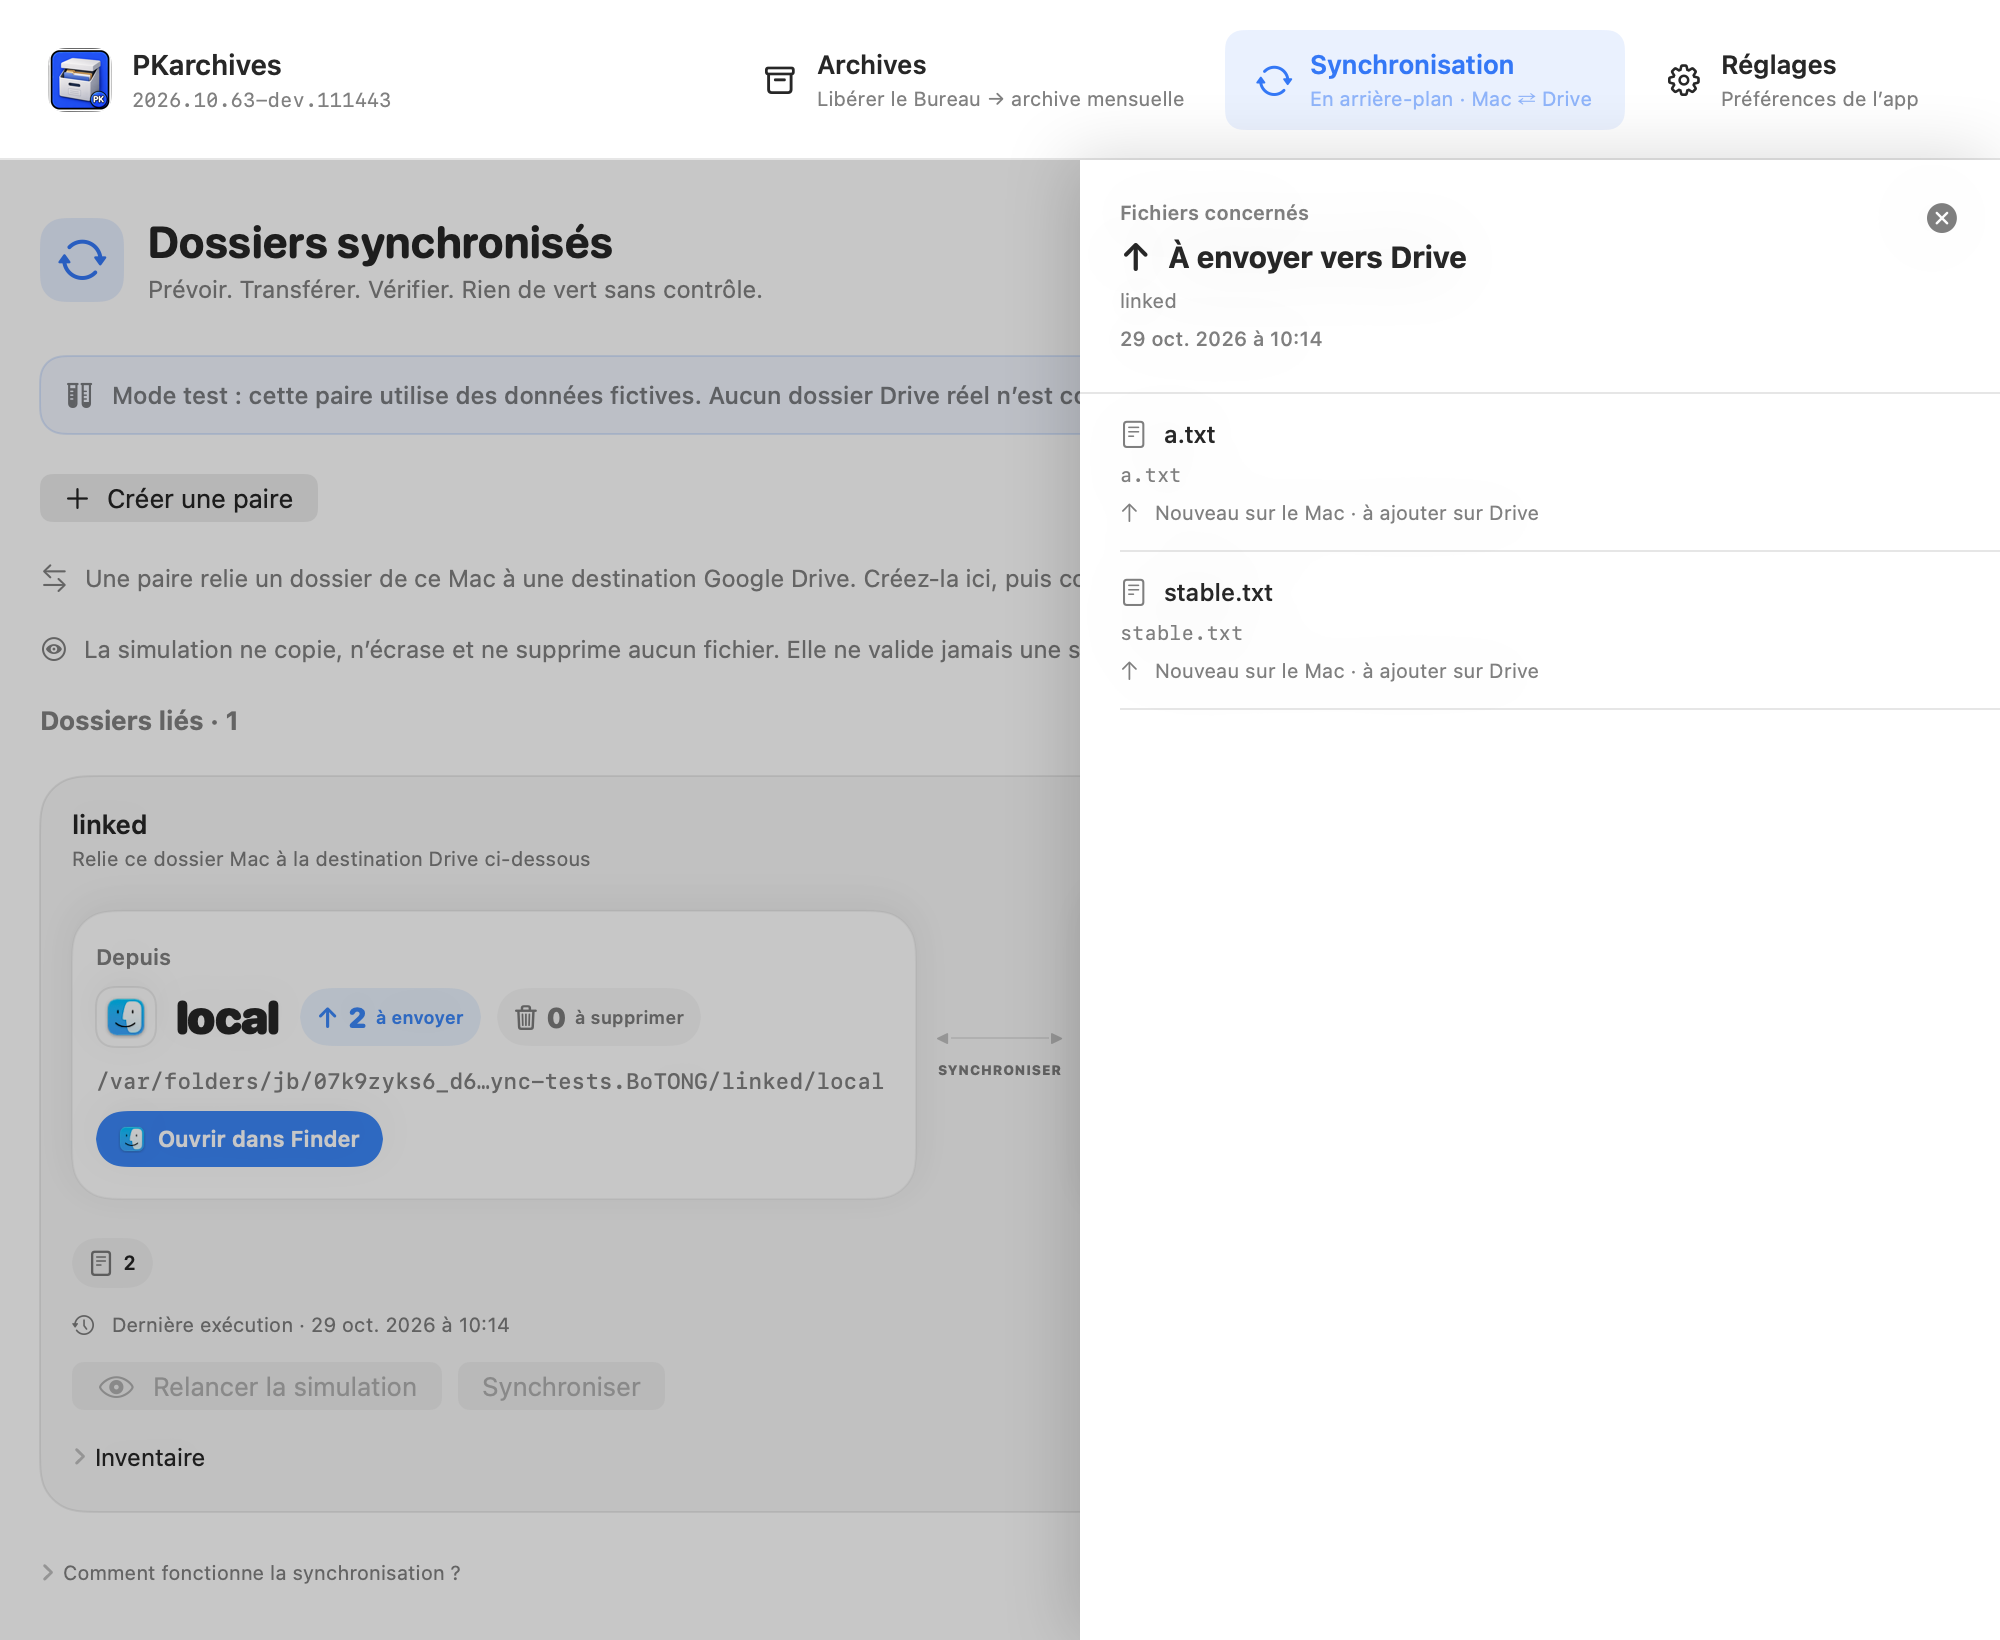
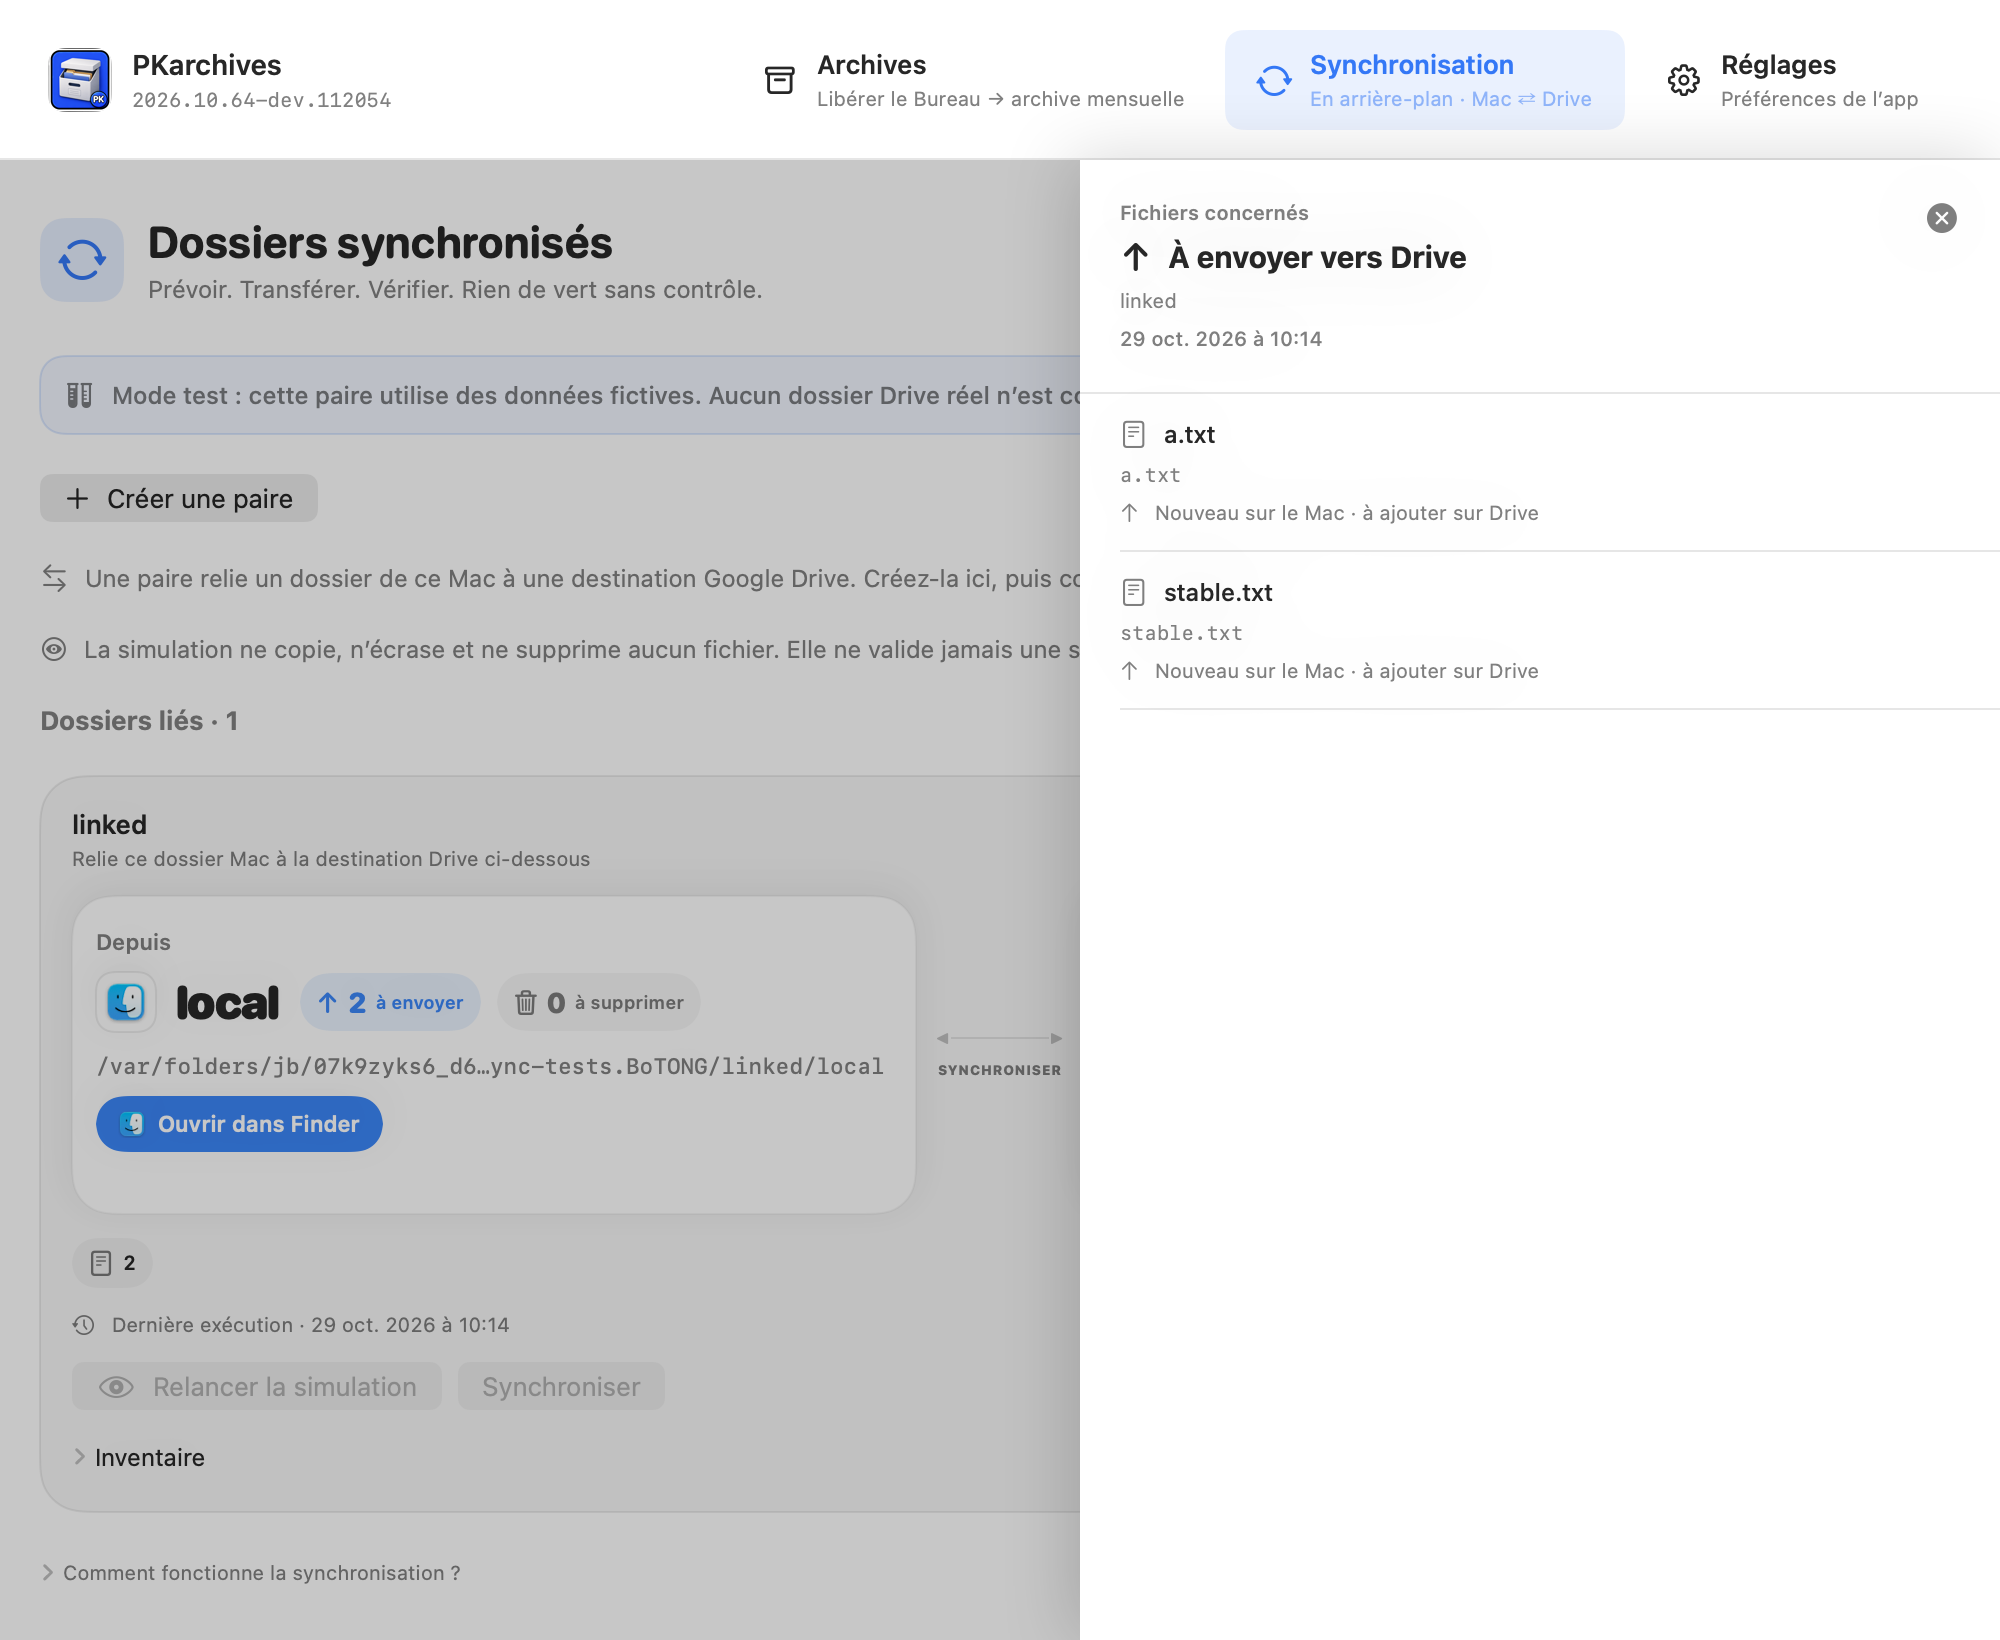
FIX: égaliser la hauteur des panneaux de synchronisation

Changed region(s): [[0.031, 0.5598, 0.434, 0.7152]]

diff --git a/src/macos/PKSync.swift b/src/macos/PKSync.swift
@@ -374,7 +374,7 @@ struct SyncPairLocations: View {
             }
         }
         .padding(.horizontal, 12).padding(.vertical, 16)
-        .frame(maxWidth: .infinity, minHeight: 108, alignment: .topLeading)
+        .frame(maxWidth: .infinity, minHeight: 108, maxHeight: .infinity, alignment: .topLeading)
         .background(Color(nsColor: .controlBackgroundColor), in: RoundedRectangle(cornerRadius: 20))
         .overlay(RoundedRectangle(cornerRadius: 20).stroke(Color.primary.opacity(0.045), lineWidth: 1))
         .shadow(color: Color.black.opacity(0.035), radius: 10, x: 0, y: 4)

diff --git a/README.md b/README.md
@@ -89,7 +89,7 @@ Le nouveau mode est disponible dans les sources et la build Dev, **pas encore da
 
 **Réglages → Général** : lancement à l’ouverture de session (en arrière-plan, avec approbation macOS si nécessaire) et affichage de barre des menus : **Débit**, **Fichiers restants** ou **Icône seule**. Les chiffres proviennent des statistiques rclone de l’exécution en cours, actualisées environ toutes les 5 s ; les paires encore en attente ne sont pas comptées et le total peut évoluer pendant l’analyse. Analyse, simulation et vérification ont leur propre état ; au repos, seule l’icône reste affichée. L’archivage affiche le nombre d’éléments restants.
 
-**Paires de synchronisation** : les deux panneaux **Depuis / Vers** restent côte à côte, même à la largeur minimale de la fenêtre. Le contenu de chaque panneau se réorganise pour préserver la lisibilité. Après simulation, cliquez sur un compteur d’envoi, de rapatriement ou de suppression pour ouvrir directement le tiroir des fichiers concernés : chemin, sens et motif (nouveau, remplacé ou suppression propagée). L’inventaire reste distinct ; aucun second clic « Voir le détail » n’est requis. Pendant un transfert, la liaison et l’indicateur de progression s’animent selon l’état réel ; Finder, Drive et le montage du Drive sont accessibles directement hors mode test.
+**Paires de synchronisation** : les deux panneaux **Depuis / Vers** restent côte à côte et de même taille, même à la largeur minimale de la fenêtre. Le contenu de chaque panneau se réorganise pour préserver la lisibilité. Après simulation, cliquez sur un compteur d’envoi, de rapatriement ou de suppression pour ouvrir directement le tiroir des fichiers concernés : chemin, sens et motif (nouveau, remplacé ou suppression propagée). L’inventaire reste distinct ; aucun second clic « Voir le détail » n’est requis. Pendant un transfert, la liaison et l’indicateur de progression s’animent selon l’état réel ; Finder, Drive et le montage du Drive sont accessibles directement hors mode test.
 
 **Réglages → Synchronisation** : pause globale de toutes les paires (1 h), mode par défaut « Simulation uniquement » pour les nouvelles paires, et liste des paires avec activation, mode simulation et formulaire complet. Ces réglages pilotent le moteur de synchronisation ; la configuration d’archivage reste dans sa propre section.
 

diff --git a/README_en.md b/README_en.md
@@ -89,7 +89,7 @@ The new mode is available in the sources and Dev build, **not yet in the Stable 
 
 **Settings → General**: launch at login (in the background, with macOS approval if needed) and menu bar display: **Transfer speed**, **Remaining files** or **Icon only**. Numbers come from the current run’s rclone stats, updated roughly every 5 s; queued pairs are excluded and totals may change during scanning. Scanning, preview and verification have distinct states; only the icon remains when idle. Archiving shows the remaining item count.
 
-**Sync pairs**: the **From / To** panels stay side by side even at the minimum window width; each panel rearranges its own content to remain readable. After a preview, click any upload, download or deletion count to open a side drawer with the affected file paths, direction and reason (new, replaced or propagated deletion). Inventory stays separate; there is no second “Show details” click. During a real transfer, the connection and native progress indicator animate with the actual run state; Finder, Drive and Drive mounting remain available outside test mode.
+**Sync pairs**: the **From / To** panels stay side by side and the same size even at the minimum window width; each panel rearranges its own content to remain readable. After a preview, click any upload, download or deletion count to open a side drawer with the affected file paths, direction and reason (new, replaced or propagated deletion). Inventory stays separate; there is no second “Show details” click. During a real transfer, the connection and native progress indicator animate with the actual run state; Finder, Drive and Drive mounting remain available outside test mode.
 
 **Settings → Synchronization**: global pause of all pairs (1 h), default “Preview only” mode for new pairs, and the pair list with enable/preview switches and the full form. These settings drive the sync engine; archiving configuration stays in its own section.
 

diff --git a/CHANGELOG.md b/CHANGELOG.md
@@ -4,7 +4,7 @@
 
 ## TODO — Roadmap
 
-Statut : `2026.10.63` (panneaux côte à côte et détail direct des opérations)
+Statut : `2026.10.64` (cartes Depuis et Vers de taille identique)
 
 ### Sécurité & Publication GitHub
 - [x] Supprimer les binaire compilé et .app du repo
@@ -18,6 +18,10 @@ Statut : `2026.10.63` (panneaux côte à côte et détail direct des opérations
 - [x] Dashboard SwiftUI et TUI avec statistiques et historique
 - [x] Graphique d'activité des archivages
 - [x] Navigation paramètres/historique dans les deux interfaces
+
+### [2026.10.64] - 2026-10-29
+#### Fixed
+- Les cartes Depuis et Vers partagent désormais la hauteur de la plus grande, tout en conservant leur largeur égale et leur disposition côte à côte à 1 000 px.
 
 ### [2026.10.63] - 2026-10-29
 #### Changed
